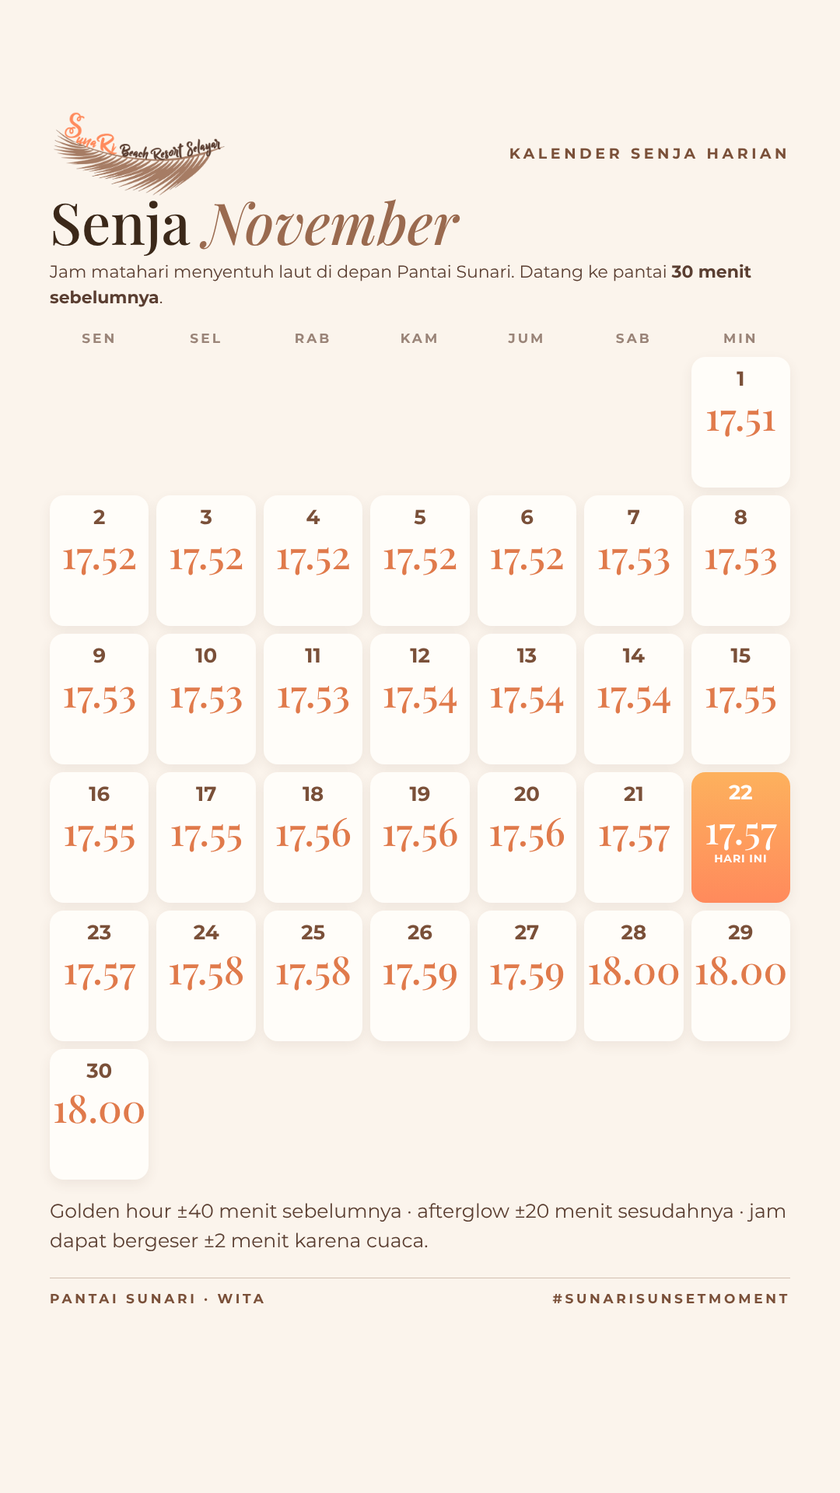
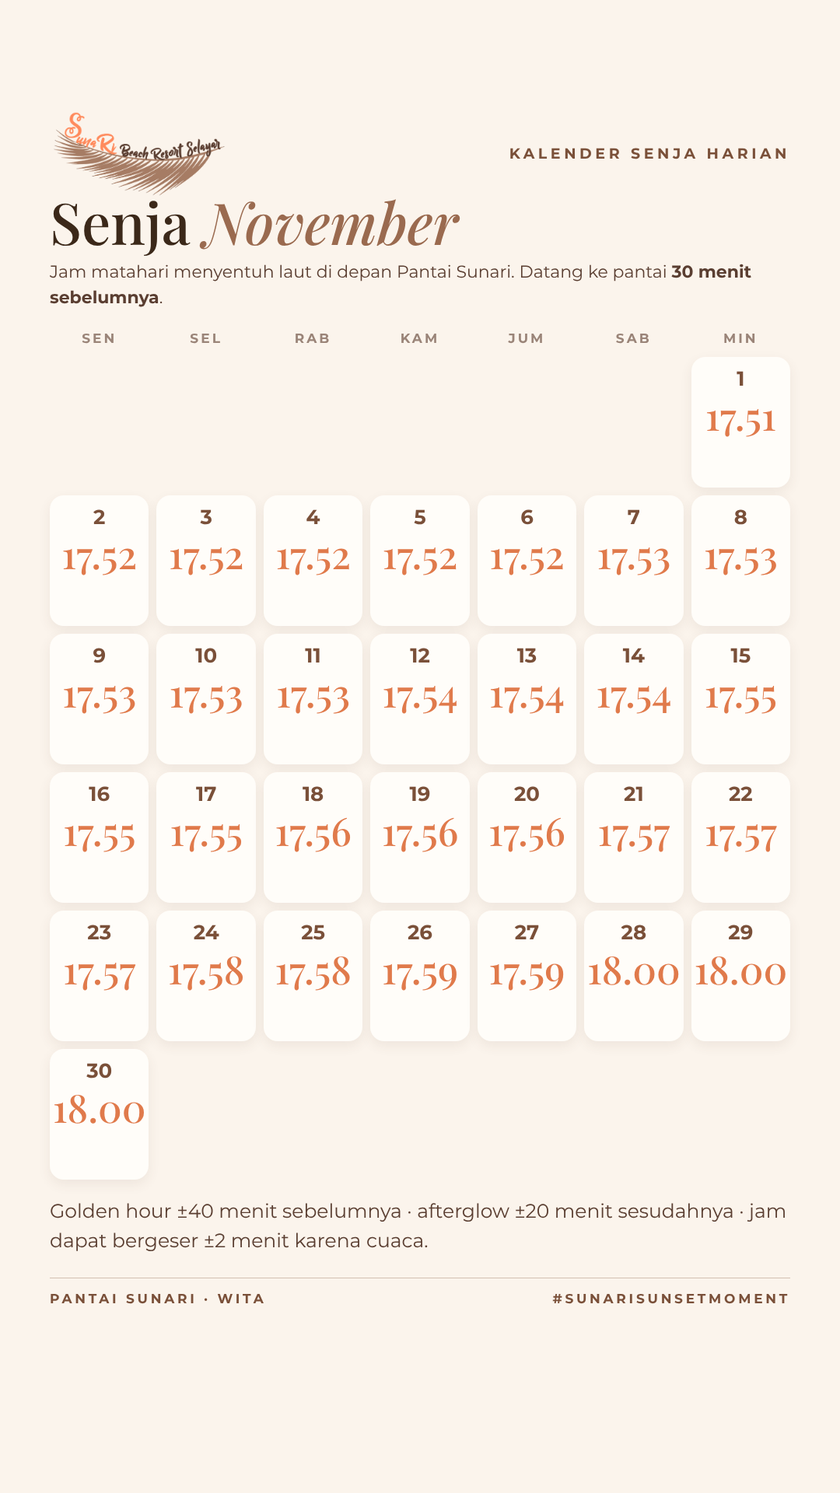
Daily sunset calendar: remove today highlight
Claude-Session: https://claude.ai/code/session_01AizaiBQtsTmWERPRfEgVV4

Changed region(s): [[0.825, 0.5, 0.9472, 0.625]]

diff --git a/social/kalender_harian.html b/social/kalender_harian.html
@@ -24,7 +24,7 @@ body{background:#bbb;font-family:Montserrat,sans-serif;color:#3B2819}
   <div style="position:absolute;left:64px;right:64px;top:166px;bottom:120px;display:flex;flex-direction:column;justify-content:center">
     <div class="pf" style="font-size:64px;line-height:1.05">November <span class="it">2026</span></div>
     <div class="note" style="margin-top:10px">Jam matahari menyentuh laut di depan Pantai Sunari. Datang ke pantai <b>30 menit sebelumnya</b>.</div>
-    <div style="margin-top:26px"><div class="wk"><div class="hd">Sen</div><div class="hd">Sel</div><div class="hd">Rab</div><div class="hd">Kam</div><div class="hd">Jum</div><div class="hd">Sab</div><div class="hd">Min</div><div class="c e"></div><div class="c e"></div><div class="c e"></div><div class="c e"></div><div class="c e"></div><div class="c e"></div><div class="c" style="height:118px;padding-top:12px"><div class="d" style="font-size:22px">1</div><div class="tm" style="font-size:42px;margin-top:6px">17.51</div></div><div class="c" style="height:118px;padding-top:12px"><div class="d" style="font-size:22px">2</div><div class="tm" style="font-size:42px;margin-top:6px">17.52</div></div><div class="c" style="height:118px;padding-top:12px"><div class="d" style="font-size:22px">3</div><div class="tm" style="font-size:42px;margin-top:6px">17.52</div></div><div class="c" style="height:118px;padding-top:12px"><div class="d" style="font-size:22px">4</div><div class="tm" style="font-size:42px;margin-top:6px">17.52</div></div><div class="c" style="height:118px;padding-top:12px"><div class="d" style="font-size:22px">5</div><div class="tm" style="font-size:42px;margin-top:6px">17.52</div></div><div class="c" style="height:118px;padding-top:12px"><div class="d" style="font-size:22px">6</div><div class="tm" style="font-size:42px;margin-top:6px">17.52</div></div><div class="c" style="height:118px;padding-top:12px"><div class="d" style="font-size:22px">7</div><div class="tm" style="font-size:42px;margin-top:6px">17.53</div></div><div class="c" style="height:118px;padding-top:12px"><div class="d" style="font-size:22px">8</div><div class="tm" style="font-size:42px;margin-top:6px">17.53</div></div><div class="c" style="height:118px;padding-top:12px"><div class="d" style="font-size:22px">9</div><div class="tm" style="font-size:42px;margin-top:6px">17.53</div></div><div class="c" style="height:118px;padding-top:12px"><div class="d" style="font-size:22px">10</div><div class="tm" style="font-size:42px;margin-top:6px">17.53</div></div><div class="c" style="height:118px;padding-top:12px"><div class="d" style="font-size:22px">11</div><div class="tm" style="font-size:42px;margin-top:6px">17.53</div></div><div class="c" style="height:118px;padding-top:12px"><div class="d" style="font-size:22px">12</div><div class="tm" style="font-size:42px;margin-top:6px">17.54</div></div><div class="c" style="height:118px;padding-top:12px"><div class="d" style="font-size:22px">13</div><div class="tm" style="font-size:42px;margin-top:6px">17.54</div></div><div class="c" style="height:118px;padding-top:12px"><div class="d" style="font-size:22px">14</div><div class="tm" style="font-size:42px;margin-top:6px">17.54</div></div><div class="c" style="height:118px;padding-top:12px"><div class="d" style="font-size:22px">15</div><div class="tm" style="font-size:42px;margin-top:6px">17.55</div></div><div class="c" style="height:118px;padding-top:12px"><div class="d" style="font-size:22px">16</div><div class="tm" style="font-size:42px;margin-top:6px">17.55</div></div><div class="c" style="height:118px;padding-top:12px"><div class="d" style="font-size:22px">17</div><div class="tm" style="font-size:42px;margin-top:6px">17.55</div></div><div class="c" style="height:118px;padding-top:12px"><div class="d" style="font-size:22px">18</div><div class="tm" style="font-size:42px;margin-top:6px">17.56</div></div><div class="c" style="height:118px;padding-top:12px"><div class="d" style="font-size:22px">19</div><div class="tm" style="font-size:42px;margin-top:6px">17.56</div></div><div class="c" style="height:118px;padding-top:12px"><div class="d" style="font-size:22px">20</div><div class="tm" style="font-size:42px;margin-top:6px">17.56</div></div><div class="c" style="height:118px;padding-top:12px"><div class="d" style="font-size:22px">21</div><div class="tm" style="font-size:42px;margin-top:6px">17.57</div></div><div class="c sp" style="height:118px;padding-top:10px"><div class="d" style="font-size:22px">22</div><div class="tm" style="font-size:42px;margin-top:6px">17.57</div><div class="lb" style="font-size:12px;margin-top:4px">Hari ini</div></div><div class="c" style="height:118px;padding-top:12px"><div class="d" style="font-size:22px">23</div><div class="tm" style="font-size:42px;margin-top:6px">17.57</div></div><div class="c" style="height:118px;padding-top:12px"><div class="d" style="font-size:22px">24</div><div class="tm" style="font-size:42px;margin-top:6px">17.58</div></div><div class="c" style="height:118px;padding-top:12px"><div class="d" style="font-size:22px">25</div><div class="tm" style="font-size:42px;margin-top:6px">17.58</div></div><div class="c" style="height:118px;padding-top:12px"><div class="d" style="font-size:22px">26</div><div class="tm" style="font-size:42px;margin-top:6px">17.59</div></div><div class="c" style="height:118px;padding-top:12px"><div class="d" style="font-size:22px">27</div><div class="tm" style="font-size:42px;margin-top:6px">17.59</div></div><div class="c" style="height:118px;padding-top:12px"><div class="d" style="font-size:22px">28</div><div class="tm" style="font-size:42px;margin-top:6px">18.00</div></div><div class="c" style="height:118px;padding-top:12px"><div class="d" style="font-size:22px">29</div><div class="tm" style="font-size:42px;margin-top:6px">18.00</div></div><div class="c" style="height:118px;padding-top:12px"><div class="d" style="font-size:22px">30</div><div class="tm" style="font-size:42px;margin-top:6px">18.00</div></div></div></div><div class="note" style="font-size:21px;margin-top:22px">Golden hour ±40 menit sebelumnya · afterglow ±20 menit sesudahnya · jam dapat bergeser ±2 menit karena cuaca.</div></div>
+    <div style="margin-top:26px"><div class="wk"><div class="hd">Sen</div><div class="hd">Sel</div><div class="hd">Rab</div><div class="hd">Kam</div><div class="hd">Jum</div><div class="hd">Sab</div><div class="hd">Min</div><div class="c e"></div><div class="c e"></div><div class="c e"></div><div class="c e"></div><div class="c e"></div><div class="c e"></div><div class="c" style="height:118px;padding-top:12px"><div class="d" style="font-size:22px">1</div><div class="tm" style="font-size:42px;margin-top:6px">17.51</div></div><div class="c" style="height:118px;padding-top:12px"><div class="d" style="font-size:22px">2</div><div class="tm" style="font-size:42px;margin-top:6px">17.52</div></div><div class="c" style="height:118px;padding-top:12px"><div class="d" style="font-size:22px">3</div><div class="tm" style="font-size:42px;margin-top:6px">17.52</div></div><div class="c" style="height:118px;padding-top:12px"><div class="d" style="font-size:22px">4</div><div class="tm" style="font-size:42px;margin-top:6px">17.52</div></div><div class="c" style="height:118px;padding-top:12px"><div class="d" style="font-size:22px">5</div><div class="tm" style="font-size:42px;margin-top:6px">17.52</div></div><div class="c" style="height:118px;padding-top:12px"><div class="d" style="font-size:22px">6</div><div class="tm" style="font-size:42px;margin-top:6px">17.52</div></div><div class="c" style="height:118px;padding-top:12px"><div class="d" style="font-size:22px">7</div><div class="tm" style="font-size:42px;margin-top:6px">17.53</div></div><div class="c" style="height:118px;padding-top:12px"><div class="d" style="font-size:22px">8</div><div class="tm" style="font-size:42px;margin-top:6px">17.53</div></div><div class="c" style="height:118px;padding-top:12px"><div class="d" style="font-size:22px">9</div><div class="tm" style="font-size:42px;margin-top:6px">17.53</div></div><div class="c" style="height:118px;padding-top:12px"><div class="d" style="font-size:22px">10</div><div class="tm" style="font-size:42px;margin-top:6px">17.53</div></div><div class="c" style="height:118px;padding-top:12px"><div class="d" style="font-size:22px">11</div><div class="tm" style="font-size:42px;margin-top:6px">17.53</div></div><div class="c" style="height:118px;padding-top:12px"><div class="d" style="font-size:22px">12</div><div class="tm" style="font-size:42px;margin-top:6px">17.54</div></div><div class="c" style="height:118px;padding-top:12px"><div class="d" style="font-size:22px">13</div><div class="tm" style="font-size:42px;margin-top:6px">17.54</div></div><div class="c" style="height:118px;padding-top:12px"><div class="d" style="font-size:22px">14</div><div class="tm" style="font-size:42px;margin-top:6px">17.54</div></div><div class="c" style="height:118px;padding-top:12px"><div class="d" style="font-size:22px">15</div><div class="tm" style="font-size:42px;margin-top:6px">17.55</div></div><div class="c" style="height:118px;padding-top:12px"><div class="d" style="font-size:22px">16</div><div class="tm" style="font-size:42px;margin-top:6px">17.55</div></div><div class="c" style="height:118px;padding-top:12px"><div class="d" style="font-size:22px">17</div><div class="tm" style="font-size:42px;margin-top:6px">17.55</div></div><div class="c" style="height:118px;padding-top:12px"><div class="d" style="font-size:22px">18</div><div class="tm" style="font-size:42px;margin-top:6px">17.56</div></div><div class="c" style="height:118px;padding-top:12px"><div class="d" style="font-size:22px">19</div><div class="tm" style="font-size:42px;margin-top:6px">17.56</div></div><div class="c" style="height:118px;padding-top:12px"><div class="d" style="font-size:22px">20</div><div class="tm" style="font-size:42px;margin-top:6px">17.56</div></div><div class="c" style="height:118px;padding-top:12px"><div class="d" style="font-size:22px">21</div><div class="tm" style="font-size:42px;margin-top:6px">17.57</div></div><div class="c" style="height:118px;padding-top:12px"><div class="d" style="font-size:22px">22</div><div class="tm" style="font-size:42px;margin-top:6px">17.57</div></div><div class="c" style="height:118px;padding-top:12px"><div class="d" style="font-size:22px">23</div><div class="tm" style="font-size:42px;margin-top:6px">17.57</div></div><div class="c" style="height:118px;padding-top:12px"><div class="d" style="font-size:22px">24</div><div class="tm" style="font-size:42px;margin-top:6px">17.58</div></div><div class="c" style="height:118px;padding-top:12px"><div class="d" style="font-size:22px">25</div><div class="tm" style="font-size:42px;margin-top:6px">17.58</div></div><div class="c" style="height:118px;padding-top:12px"><div class="d" style="font-size:22px">26</div><div class="tm" style="font-size:42px;margin-top:6px">17.59</div></div><div class="c" style="height:118px;padding-top:12px"><div class="d" style="font-size:22px">27</div><div class="tm" style="font-size:42px;margin-top:6px">17.59</div></div><div class="c" style="height:118px;padding-top:12px"><div class="d" style="font-size:22px">28</div><div class="tm" style="font-size:42px;margin-top:6px">18.00</div></div><div class="c" style="height:118px;padding-top:12px"><div class="d" style="font-size:22px">29</div><div class="tm" style="font-size:42px;margin-top:6px">18.00</div></div><div class="c" style="height:118px;padding-top:12px"><div class="d" style="font-size:22px">30</div><div class="tm" style="font-size:42px;margin-top:6px">18.00</div></div></div></div><div class="note" style="font-size:21px;margin-top:22px">Golden hour ±40 menit sebelumnya · afterglow ±20 menit sesudahnya · jam dapat bergeser ±2 menit karena cuaca.</div></div>
   <div class="ft" style="bottom:50px"><span>Pantai Sunari · WITA</span><span>#sunarisunsetmoment</span></div></div><div class="t f" id="kalender-harian-des">
   <div class="top" style="top:56px"><img src="../assets/logo-sunari-color.png" alt=""><span class="caps" style="font-size:19px">Kalender senja harian</span></div>
   <div style="position:absolute;left:64px;right:64px;top:166px;bottom:120px;display:flex;flex-direction:column;justify-content:center">
@@ -36,7 +36,7 @@ body{background:#bbb;font-family:Montserrat,sans-serif;color:#3B2819}
   <div style="position:absolute;left:64px;right:64px;top:250px;bottom:310px;display:flex;flex-direction:column;justify-content:center">
     <div class="pf" style="font-size:74px;line-height:1.05">Senja <span class="it">November</span></div>
     <div class="note" style="margin-top:10px">Jam matahari menyentuh laut di depan Pantai Sunari. Datang ke pantai <b>30 menit sebelumnya</b>.</div>
-    <div style="margin-top:26px"><div class="wk"><div class="hd">Sen</div><div class="hd">Sel</div><div class="hd">Rab</div><div class="hd">Kam</div><div class="hd">Jum</div><div class="hd">Sab</div><div class="hd">Min</div><div class="c e"></div><div class="c e"></div><div class="c e"></div><div class="c e"></div><div class="c e"></div><div class="c e"></div><div class="c" style="height:168px;padding-top:12px"><div class="d" style="font-size:26px">1</div><div class="tm" style="font-size:50px;margin-top:6px">17.51</div></div><div class="c" style="height:168px;padding-top:12px"><div class="d" style="font-size:26px">2</div><div class="tm" style="font-size:50px;margin-top:6px">17.52</div></div><div class="c" style="height:168px;padding-top:12px"><div class="d" style="font-size:26px">3</div><div class="tm" style="font-size:50px;margin-top:6px">17.52</div></div><div class="c" style="height:168px;padding-top:12px"><div class="d" style="font-size:26px">4</div><div class="tm" style="font-size:50px;margin-top:6px">17.52</div></div><div class="c" style="height:168px;padding-top:12px"><div class="d" style="font-size:26px">5</div><div class="tm" style="font-size:50px;margin-top:6px">17.52</div></div><div class="c" style="height:168px;padding-top:12px"><div class="d" style="font-size:26px">6</div><div class="tm" style="font-size:50px;margin-top:6px">17.52</div></div><div class="c" style="height:168px;padding-top:12px"><div class="d" style="font-size:26px">7</div><div class="tm" style="font-size:50px;margin-top:6px">17.53</div></div><div class="c" style="height:168px;padding-top:12px"><div class="d" style="font-size:26px">8</div><div class="tm" style="font-size:50px;margin-top:6px">17.53</div></div><div class="c" style="height:168px;padding-top:12px"><div class="d" style="font-size:26px">9</div><div class="tm" style="font-size:50px;margin-top:6px">17.53</div></div><div class="c" style="height:168px;padding-top:12px"><div class="d" style="font-size:26px">10</div><div class="tm" style="font-size:50px;margin-top:6px">17.53</div></div><div class="c" style="height:168px;padding-top:12px"><div class="d" style="font-size:26px">11</div><div class="tm" style="font-size:50px;margin-top:6px">17.53</div></div><div class="c" style="height:168px;padding-top:12px"><div class="d" style="font-size:26px">12</div><div class="tm" style="font-size:50px;margin-top:6px">17.54</div></div><div class="c" style="height:168px;padding-top:12px"><div class="d" style="font-size:26px">13</div><div class="tm" style="font-size:50px;margin-top:6px">17.54</div></div><div class="c" style="height:168px;padding-top:12px"><div class="d" style="font-size:26px">14</div><div class="tm" style="font-size:50px;margin-top:6px">17.54</div></div><div class="c" style="height:168px;padding-top:12px"><div class="d" style="font-size:26px">15</div><div class="tm" style="font-size:50px;margin-top:6px">17.55</div></div><div class="c" style="height:168px;padding-top:12px"><div class="d" style="font-size:26px">16</div><div class="tm" style="font-size:50px;margin-top:6px">17.55</div></div><div class="c" style="height:168px;padding-top:12px"><div class="d" style="font-size:26px">17</div><div class="tm" style="font-size:50px;margin-top:6px">17.55</div></div><div class="c" style="height:168px;padding-top:12px"><div class="d" style="font-size:26px">18</div><div class="tm" style="font-size:50px;margin-top:6px">17.56</div></div><div class="c" style="height:168px;padding-top:12px"><div class="d" style="font-size:26px">19</div><div class="tm" style="font-size:50px;margin-top:6px">17.56</div></div><div class="c" style="height:168px;padding-top:12px"><div class="d" style="font-size:26px">20</div><div class="tm" style="font-size:50px;margin-top:6px">17.56</div></div><div class="c" style="height:168px;padding-top:12px"><div class="d" style="font-size:26px">21</div><div class="tm" style="font-size:50px;margin-top:6px">17.57</div></div><div class="c sp" style="height:168px;padding-top:10px"><div class="d" style="font-size:26px">22</div><div class="tm" style="font-size:50px;margin-top:6px">17.57</div><div class="lb" style="font-size:14px;margin-top:4px">Hari ini</div></div><div class="c" style="height:168px;padding-top:12px"><div class="d" style="font-size:26px">23</div><div class="tm" style="font-size:50px;margin-top:6px">17.57</div></div><div class="c" style="height:168px;padding-top:12px"><div class="d" style="font-size:26px">24</div><div class="tm" style="font-size:50px;margin-top:6px">17.58</div></div><div class="c" style="height:168px;padding-top:12px"><div class="d" style="font-size:26px">25</div><div class="tm" style="font-size:50px;margin-top:6px">17.58</div></div><div class="c" style="height:168px;padding-top:12px"><div class="d" style="font-size:26px">26</div><div class="tm" style="font-size:50px;margin-top:6px">17.59</div></div><div class="c" style="height:168px;padding-top:12px"><div class="d" style="font-size:26px">27</div><div class="tm" style="font-size:50px;margin-top:6px">17.59</div></div><div class="c" style="height:168px;padding-top:12px"><div class="d" style="font-size:26px">28</div><div class="tm" style="font-size:50px;margin-top:6px">18.00</div></div><div class="c" style="height:168px;padding-top:12px"><div class="d" style="font-size:26px">29</div><div class="tm" style="font-size:50px;margin-top:6px">18.00</div></div><div class="c" style="height:168px;padding-top:12px"><div class="d" style="font-size:26px">30</div><div class="tm" style="font-size:50px;margin-top:6px">18.00</div></div></div></div><div class="note" style="font-size:25px;margin-top:22px">Golden hour ±40 menit sebelumnya · afterglow ±20 menit sesudahnya · jam dapat bergeser ±2 menit karena cuaca.</div></div>
+    <div style="margin-top:26px"><div class="wk"><div class="hd">Sen</div><div class="hd">Sel</div><div class="hd">Rab</div><div class="hd">Kam</div><div class="hd">Jum</div><div class="hd">Sab</div><div class="hd">Min</div><div class="c e"></div><div class="c e"></div><div class="c e"></div><div class="c e"></div><div class="c e"></div><div class="c e"></div><div class="c" style="height:168px;padding-top:12px"><div class="d" style="font-size:26px">1</div><div class="tm" style="font-size:50px;margin-top:6px">17.51</div></div><div class="c" style="height:168px;padding-top:12px"><div class="d" style="font-size:26px">2</div><div class="tm" style="font-size:50px;margin-top:6px">17.52</div></div><div class="c" style="height:168px;padding-top:12px"><div class="d" style="font-size:26px">3</div><div class="tm" style="font-size:50px;margin-top:6px">17.52</div></div><div class="c" style="height:168px;padding-top:12px"><div class="d" style="font-size:26px">4</div><div class="tm" style="font-size:50px;margin-top:6px">17.52</div></div><div class="c" style="height:168px;padding-top:12px"><div class="d" style="font-size:26px">5</div><div class="tm" style="font-size:50px;margin-top:6px">17.52</div></div><div class="c" style="height:168px;padding-top:12px"><div class="d" style="font-size:26px">6</div><div class="tm" style="font-size:50px;margin-top:6px">17.52</div></div><div class="c" style="height:168px;padding-top:12px"><div class="d" style="font-size:26px">7</div><div class="tm" style="font-size:50px;margin-top:6px">17.53</div></div><div class="c" style="height:168px;padding-top:12px"><div class="d" style="font-size:26px">8</div><div class="tm" style="font-size:50px;margin-top:6px">17.53</div></div><div class="c" style="height:168px;padding-top:12px"><div class="d" style="font-size:26px">9</div><div class="tm" style="font-size:50px;margin-top:6px">17.53</div></div><div class="c" style="height:168px;padding-top:12px"><div class="d" style="font-size:26px">10</div><div class="tm" style="font-size:50px;margin-top:6px">17.53</div></div><div class="c" style="height:168px;padding-top:12px"><div class="d" style="font-size:26px">11</div><div class="tm" style="font-size:50px;margin-top:6px">17.53</div></div><div class="c" style="height:168px;padding-top:12px"><div class="d" style="font-size:26px">12</div><div class="tm" style="font-size:50px;margin-top:6px">17.54</div></div><div class="c" style="height:168px;padding-top:12px"><div class="d" style="font-size:26px">13</div><div class="tm" style="font-size:50px;margin-top:6px">17.54</div></div><div class="c" style="height:168px;padding-top:12px"><div class="d" style="font-size:26px">14</div><div class="tm" style="font-size:50px;margin-top:6px">17.54</div></div><div class="c" style="height:168px;padding-top:12px"><div class="d" style="font-size:26px">15</div><div class="tm" style="font-size:50px;margin-top:6px">17.55</div></div><div class="c" style="height:168px;padding-top:12px"><div class="d" style="font-size:26px">16</div><div class="tm" style="font-size:50px;margin-top:6px">17.55</div></div><div class="c" style="height:168px;padding-top:12px"><div class="d" style="font-size:26px">17</div><div class="tm" style="font-size:50px;margin-top:6px">17.55</div></div><div class="c" style="height:168px;padding-top:12px"><div class="d" style="font-size:26px">18</div><div class="tm" style="font-size:50px;margin-top:6px">17.56</div></div><div class="c" style="height:168px;padding-top:12px"><div class="d" style="font-size:26px">19</div><div class="tm" style="font-size:50px;margin-top:6px">17.56</div></div><div class="c" style="height:168px;padding-top:12px"><div class="d" style="font-size:26px">20</div><div class="tm" style="font-size:50px;margin-top:6px">17.56</div></div><div class="c" style="height:168px;padding-top:12px"><div class="d" style="font-size:26px">21</div><div class="tm" style="font-size:50px;margin-top:6px">17.57</div></div><div class="c" style="height:168px;padding-top:12px"><div class="d" style="font-size:26px">22</div><div class="tm" style="font-size:50px;margin-top:6px">17.57</div></div><div class="c" style="height:168px;padding-top:12px"><div class="d" style="font-size:26px">23</div><div class="tm" style="font-size:50px;margin-top:6px">17.57</div></div><div class="c" style="height:168px;padding-top:12px"><div class="d" style="font-size:26px">24</div><div class="tm" style="font-size:50px;margin-top:6px">17.58</div></div><div class="c" style="height:168px;padding-top:12px"><div class="d" style="font-size:26px">25</div><div class="tm" style="font-size:50px;margin-top:6px">17.58</div></div><div class="c" style="height:168px;padding-top:12px"><div class="d" style="font-size:26px">26</div><div class="tm" style="font-size:50px;margin-top:6px">17.59</div></div><div class="c" style="height:168px;padding-top:12px"><div class="d" style="font-size:26px">27</div><div class="tm" style="font-size:50px;margin-top:6px">17.59</div></div><div class="c" style="height:168px;padding-top:12px"><div class="d" style="font-size:26px">28</div><div class="tm" style="font-size:50px;margin-top:6px">18.00</div></div><div class="c" style="height:168px;padding-top:12px"><div class="d" style="font-size:26px">29</div><div class="tm" style="font-size:50px;margin-top:6px">18.00</div></div><div class="c" style="height:168px;padding-top:12px"><div class="d" style="font-size:26px">30</div><div class="tm" style="font-size:50px;margin-top:6px">18.00</div></div></div></div><div class="note" style="font-size:25px;margin-top:22px">Golden hour ±40 menit sebelumnya · afterglow ±20 menit sesudahnya · jam dapat bergeser ±2 menit karena cuaca.</div></div>
   <div class="ft" style="bottom:240px"><span>Pantai Sunari · WITA</span><span>#sunarisunsetmoment</span></div></div><div class="t s" id="story-kalender-harian-des">
   <div class="top" style="top:140px"><img src="../assets/logo-sunari-color.png" alt=""><span class="caps" style="font-size:19px">Kalender senja harian</span></div>
   <div style="position:absolute;left:64px;right:64px;top:250px;bottom:310px;display:flex;flex-direction:column;justify-content:center">

diff --git a/social/build_kalender_harian.py b/social/build_kalender_harian.py
@@ -16,7 +16,7 @@ def sunset(d):
 START, END = dt.date(2026, 11, 22), dt.date(2026, 12, 31)
 DAYS = [START + dt.timedelta(i) for i in range((END - START).days + 1)]
 HARI = ["Sen", "Sel", "Rab", "Kam", "Jum", "Sab", "Min"]
-SPECIAL = {dt.date(2026, 11, 22): "Hari ini", dt.date(2026, 12, 25): "Natal", dt.date(2026, 12, 31): "Senja terakhir 2026"}
+SPECIAL = {dt.date(2026, 12, 25): "Natal", dt.date(2026, 12, 31): "Senja terakhir 2026"}
 
 FONTS = '<link href="https://fonts.googleapis.com/css2?family=Playfair+Display:ital,wght@0,400;0,500;1,400;1,500&family=Montserrat:wght@400;500;600;700&display=swap" rel="stylesheet">'
 CSS = """

diff --git a/social/SUNSET_GUIDE.md b/social/SUNSET_GUIDE.md
@@ -116,13 +116,13 @@ Reservasi: WhatsApp 0821-8903-3044
 ## Kalender Senja Harian November – Desember 2026 (1 Nov – 31 Des) (`social/kalender-senja-harian/`)
 - Feed (1080×1350): `kalender-harian-nov`, `kalender-harian-des`. Bisa diposting sebagai carousel 2 slide.
 - Story (1080×1920): `story-kalender-harian-nov`, `story-kalender-harian-des`.
-- Jam dihitung untuk tiap hari, dan tanggal penting disorot: 22 Nov (hari ini), 25 Des (Natal), 31 Des (senja terakhir 2026).
+- Jam dihitung untuk tiap hari, dan tanggal penting disorot: 25 Des (Natal), 31 Des (senja terakhir 2026).
 - Untuk membuat ulang: `python3 social/build_kalender_harian.py && node social/render_kalender_harian.js`.
 
 **Caption**
 ```
 Kalender senja harian Pantai Sunari, November & Desember 2026 🌅
-Senja makin sore menjelang akhir tahun: 17.57 hari ini, 18.15 di senja terakhir 2026.
+Senja makin sore menjelang akhir tahun: 17.51 di awal November, 18.15 di senja terakhir 2026.
 Simpan & tandai tanggalmu. Datang ke pantai 30 menit sebelumnya.
 
 Reservasi: WhatsApp 0821-8903-3044
